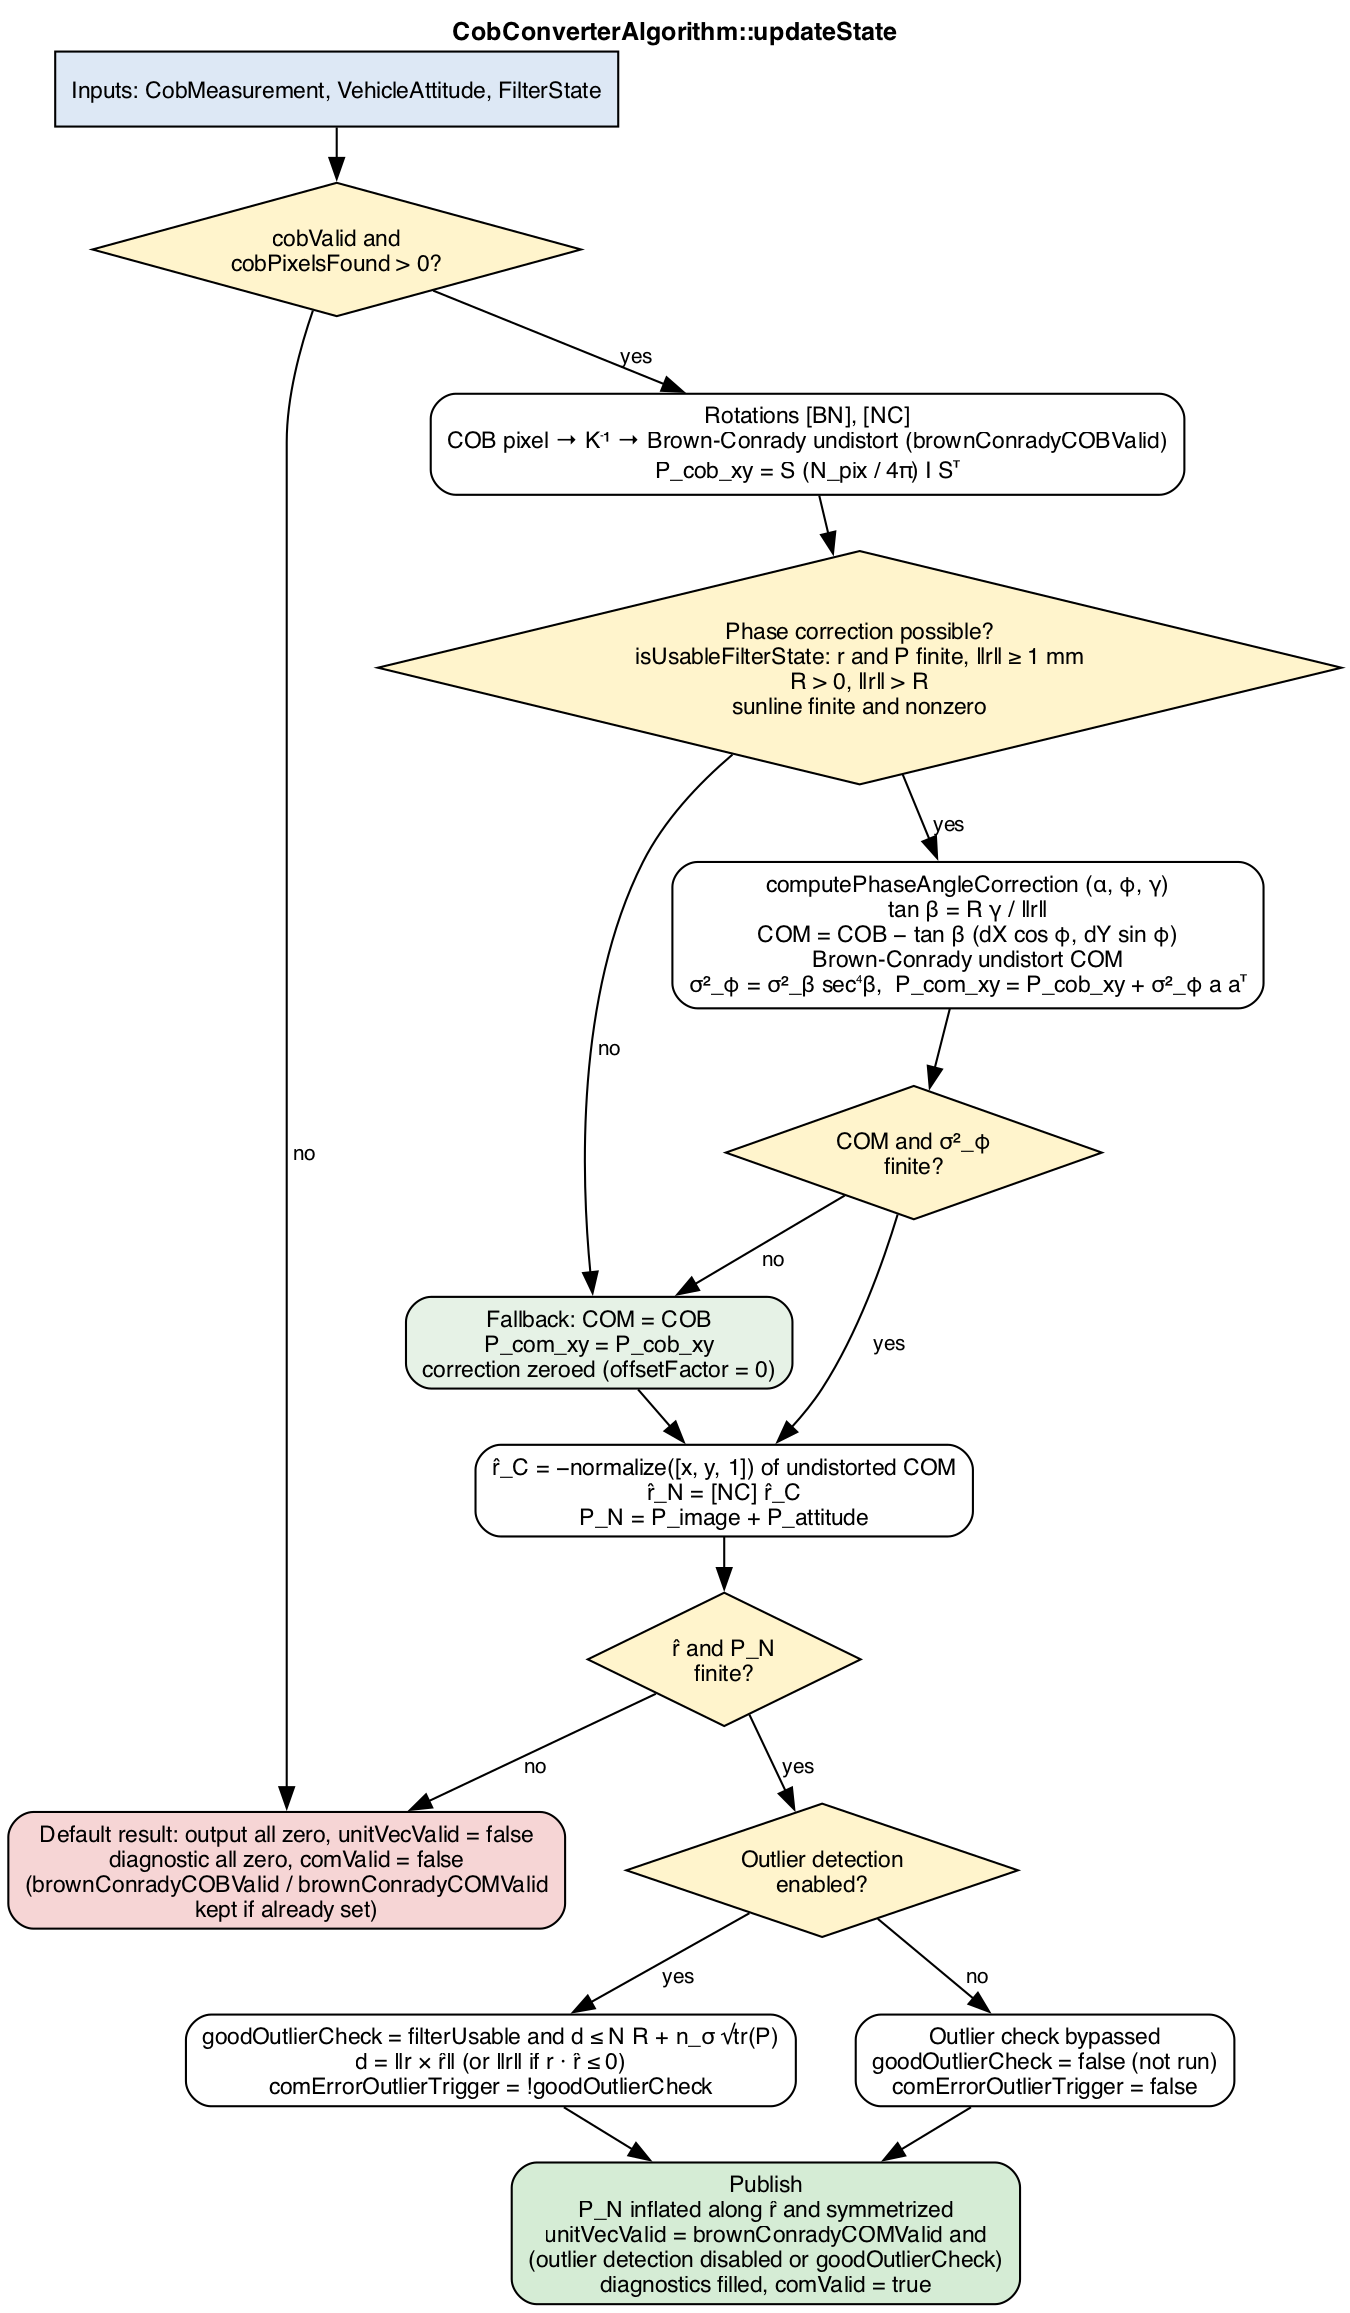
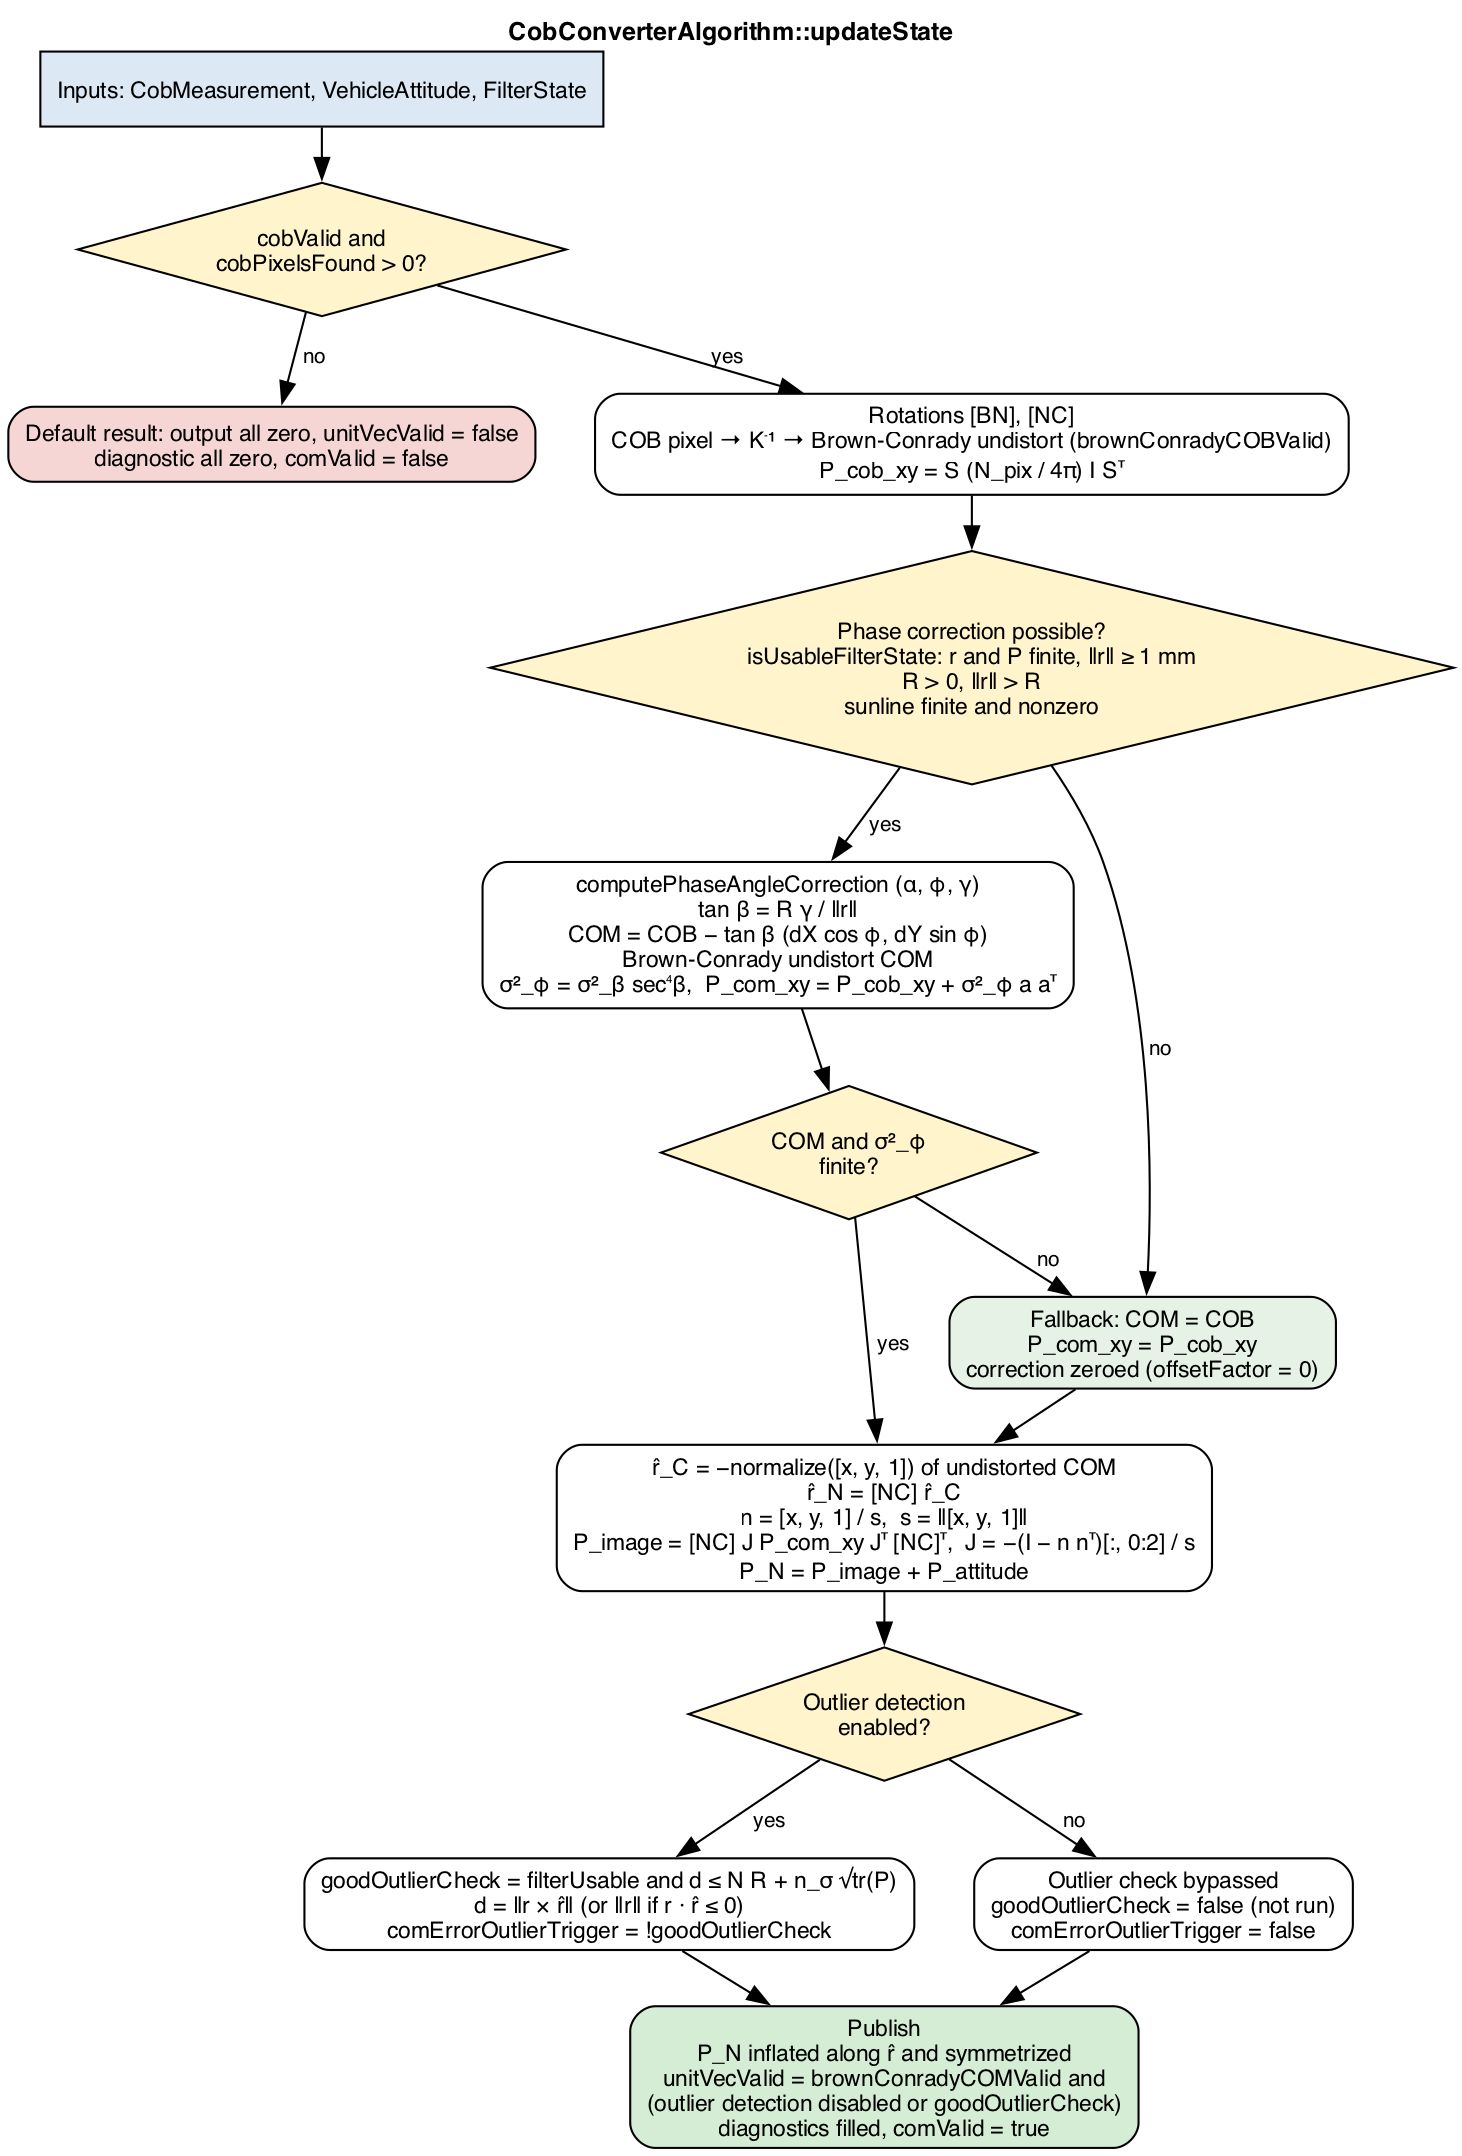
Remove publish finiteness gate and rewrite COM Jacobian to avoid overflow

Changed region(s): [[0.0, 0.0, 0.9956, 1.0], [0.7778, 0.7147, 0.8089, 0.7458], [0.3422, 0.4351, 0.3733, 0.4661]]

diff --git a/algorithms/cobConverter/cobConverterAlgorithm.cpp b/algorithms/cobConverter/cobConverterAlgorithm.cpp
@@ -358,10 +358,13 @@ CobConverterUpdateResult CobConverterAlgorithm::updateState(const CobMeasurement
         // P_^C rhat_COM_SC
         const Eigen::Vector3f h{xCOMCorrected, yCOMCorrected, 1.0F};
         const float s = h.stableNorm();
+        // Scale by s first so the entries stay bounded for any finite x, y.
+        const float nx = xCOMCorrected / s;
+        const float ny = yCOMCorrected / s;
+        const float nz = 1.0F / s;
         Eigen::Matrix<float, 3, 2> jacob;
-        jacob << (yCOMCorrected * yCOMCorrected) + 1.0F, -xCOMCorrected * yCOMCorrected, -xCOMCorrected * yCOMCorrected,
-            (xCOMCorrected * xCOMCorrected) + 1.0F, -xCOMCorrected, -yCOMCorrected;
-        jacob *= static_cast<float>(-1.0F / pow(s, 3));
+        jacob << (ny * ny) + (nz * nz), -nx * ny, -nx * ny, (nx * nx) + (nz * nz), -nx * nz, -ny * nz;
+        jacob *= -1.0F / s;
         const Eigen::Matrix3f covarRHatC = jacob * covarCOMxy * jacob.transpose();
 
         // P_^Nrhat
@@ -374,31 +377,29 @@ CobConverterUpdateResult CobConverterAlgorithm::updateState(const CobMeasurement
                                                rotations.dcm_BN;
         const Eigen::Matrix3f covarRHat_N_Buffer = covarImageN + covarAttitudeN;
 
-        if (rhatCOM_SC_C_Buffer.allFinite() && covarRHat_N_Buffer.allFinite()) {
-            const bool outlierDetectionEnabled = this->cfg.isOutlierDetectionEnabled();
-            bool goodOutlierCheck = false;  // set only when outlier detection runs
-            if (outlierDetectionEnabled) {
-                // An unusable filter state can't validate the measurement.
-                goodOutlierCheck = filterUsable && this->comOutlierDetection(filter, rhatCOM_SC_N_Buffer);
-                result.diagnostic.comErrorOutlierTrigger = !goodOutlierCheck;
-            }
-            const float lineOfSightVariance = 0.5F * covarRHat_N_Buffer.trace();
-            const Eigen::Matrix3f covarPublished_N =
-                covarRHat_N_Buffer + (lineOfSightVariance * (rhatCOM_SC_N_Buffer * rhatCOM_SC_N_Buffer.transpose()));
-
-            result.output.rhat_BN_N = rhatCOM_SC_N_Buffer;
-            result.output.covar_N = 0.5F * (covarPublished_N + covarPublished_N.transpose());
-            result.output.unitVecTimeTag = fsw::nanosToSeconds(cob.cobTimeTag);
-            // Disabled outlier detection bypasses the check.
-            result.output.unitVecValid = brownConradyCOMValid && (!outlierDetectionEnabled || goodOutlierCheck);
-
-            result.diagnostic.centerOfMass = centerOfMass.head<2>();
-            result.diagnostic.offsetFactor = correction.gamma;
-            result.diagnostic.objectPixelRadius = static_cast<int>(correction.Rc);
-            result.diagnostic.phaseAngle = correction.alphaPA;
-            result.diagnostic.sunDirection = correction.phi;
-            result.diagnostic.comValid = true;
+        const bool outlierDetectionEnabled = this->cfg.isOutlierDetectionEnabled();
+        bool goodOutlierCheck = false;  // set only when outlier detection runs
+        if (outlierDetectionEnabled) {
+            // An unusable filter state can't validate the measurement.
+            goodOutlierCheck = filterUsable && this->comOutlierDetection(filter, rhatCOM_SC_N_Buffer);
+            result.diagnostic.comErrorOutlierTrigger = !goodOutlierCheck;
         }
+        const float lineOfSightVariance = 0.5F * covarRHat_N_Buffer.trace();
+        const Eigen::Matrix3f covarPublished_N =
+            covarRHat_N_Buffer + (lineOfSightVariance * (rhatCOM_SC_N_Buffer * rhatCOM_SC_N_Buffer.transpose()));
+
+        result.output.rhat_BN_N = rhatCOM_SC_N_Buffer;
+        result.output.covar_N = 0.5F * (covarPublished_N + covarPublished_N.transpose());
+        result.output.unitVecTimeTag = fsw::nanosToSeconds(cob.cobTimeTag);
+        // Disabled outlier detection bypasses the check.
+        result.output.unitVecValid = brownConradyCOMValid && (!outlierDetectionEnabled || goodOutlierCheck);
+
+        result.diagnostic.centerOfMass = centerOfMass.head<2>();
+        result.diagnostic.offsetFactor = correction.gamma;
+        result.diagnostic.objectPixelRadius = static_cast<int>(correction.Rc);
+        result.diagnostic.phaseAngle = correction.alphaPA;
+        result.diagnostic.sunDirection = correction.phi;
+        result.diagnostic.comValid = true;
     }
     return result;
 }

diff --git a/algorithms/cobConverter/_tests/cobConverterTestHelpers.hpp b/algorithms/cobConverter/_tests/cobConverterTestHelpers.hpp
@@ -260,11 +260,6 @@ inline CobConverterUpdateResult referenceCobConverterUpdate(const CobConverterCo
         (dcm_NC * covarRHat_C * dcm_NC.transpose()) +
         (16.0 * dcm_BN.transpose() * rHatSkew_B * attitudeCovariance * rHatSkew_B.transpose() * dcm_BN);
 
-    // Mirrors updateState's publish gate: COM unit vector and covariance must be finite.
-    if (!rhatCOM_C.allFinite() || !covar_N.allFinite()) {
-        return output;
-    }
-
     const Eigen::Vector3d rhatCOM_N = dcm_NC * rhatCOM_C;
 
     bool goodOutlierCheck = false;  // set only when outlier detection runs
